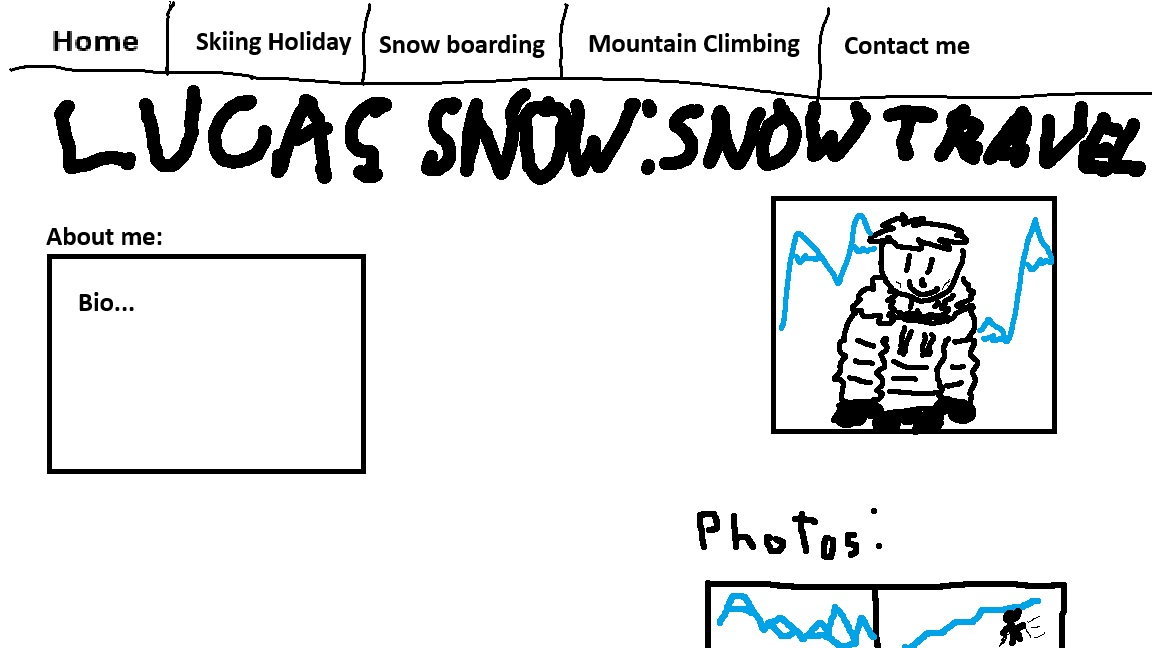
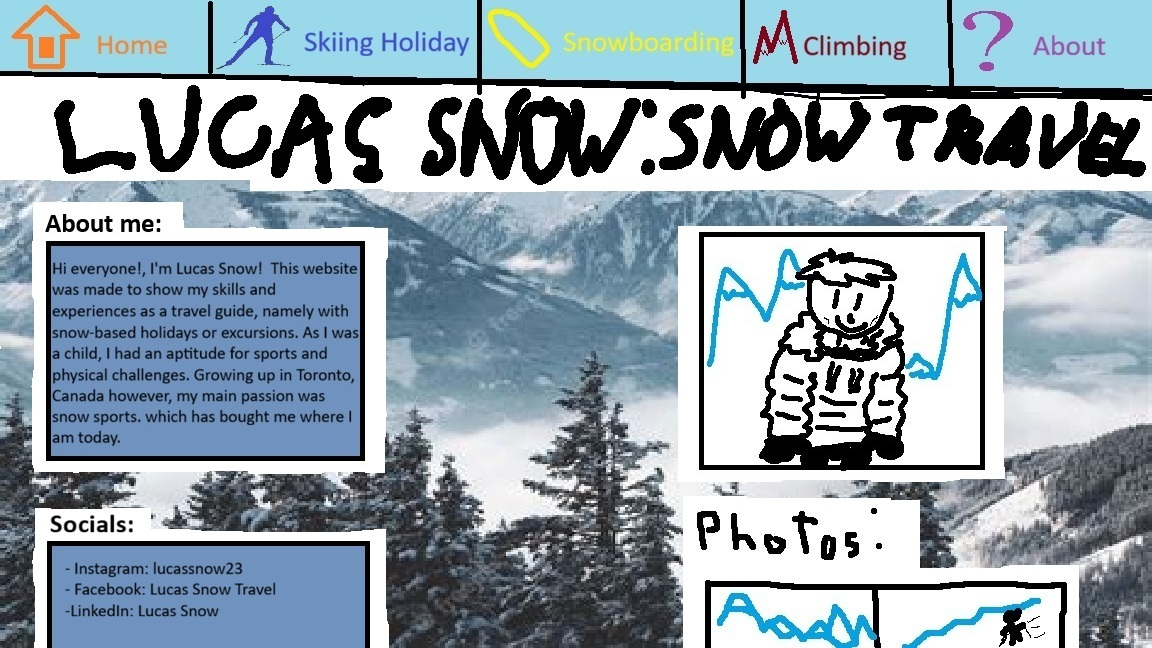
Added accessability
Added accessability features to my website such as increased contrast, added image descriptions and larger text.

diff --git a/index.html b/index.html
@@ -2,10 +2,12 @@
 <html>
 <head>
 <link rel="stylesheet" href="./css/style.css">
-<link rel="stylesheet" href="https://cdn.jsdelivr.net/npm/bootstrap@5.2.3/dist/css/bootstrap.min.css">
 <title>Lucas Snow | Snow Travel Guide | CV</title>
 </head>
-<body>
+<body alt="A background of snow-capped mountains">>
+
+
+<!-- Tab content -->
 
 <nav>
 	<button ><a href="./index.html">Home</a></button>
@@ -15,22 +17,22 @@
 	<button ><a href="./about.html">About</a></button>
 </nav>
 
-<!-- Tab content -->
-
 <h1>Lucas Snow | Snow Travel Guide | CV</h1>
 
 <h2>Home</h2>
 
-<i href="https://www.w3schools.com/html/default.asp" class="normText">Hi everyone!, I'm Lucas Snow! This website was made as a CV for the travel guide Lucas Snow.
+<i class="normText">Hi everyone!, I'm Lucas Snow! This website was made as a CV for the travel guide Lucas Snow.
 This website was made to show my skills and experiences as a travel guide,
  namely with snow-based holidays or excursions.</i>
-<br>
+
+<p><br></p>
 
 <img src="C:\Users\hylan\OneDrive\Web development\GitHub\WebDev_Project_Kilimanjaro\
 Lucas Snow Profile Picture.png"
  alt="A Profile Picture of Lucas Snow">
 
 <p><br></p>
+
 <h2>Socials</h2>
 <li class="normText">Lucas Snow - Facebook</li>
 <li class="normText">Lucas Snow - Instagram</li>

diff --git a/css/style.css b/css/style.css
@@ -1,26 +1,33 @@
-@import url('https://fonts.googleapis.com/css2?family=Roboto:ital,wght@0,100..900;1,100..900&display=swap');
-
-h1{
-    color: navy;
-	text-align: center
-}
+@import url('https://fonts.googleapis.com/css2?family=Roboto:ital,wght@0,100..900;1,100..900&display=swap');	
 
 .normText{
     background-color:powderblue;
+	height: 35px;
+	width: 50vw;
 }
 
-li{
-	position: center;
-	width: 50vw;
-	height: 40px;
-	padding: 5px;
-	margin: 5px;
-	border: 5px double grey;
+h1{
+    font-size: 40px;
+	color: lightblue;
+	text-align: center;
+	background-color: #191D2A;
+	width: 100vw;
+	padding: 10px;
+}
+
+nav{
+	text-align: center;
+}
+
+a{
+	font-size: 25px;
 }
 
 h2{
-	color: powderblue;
+	font-size: 30px;
+	color: #DEF8FF;
 	background-color:navy;
+	width: 50vw;
 }
 
 body{
@@ -29,9 +36,15 @@ body{
 	background-repeat: no-repeat;
 	background-position: center;
 	background-attachment: fixed;
-	background-size: 100vw 100vh;
+	background-size: 100vw 100vh;	
 }
 
-nav{
-	text-align: left;
+li{
+	position: center;
+	width: 50vw;
+	height: 35px;
+	padding: 5px;
+	margin: 5px;
+	border: 5px double grey;
 }
+
